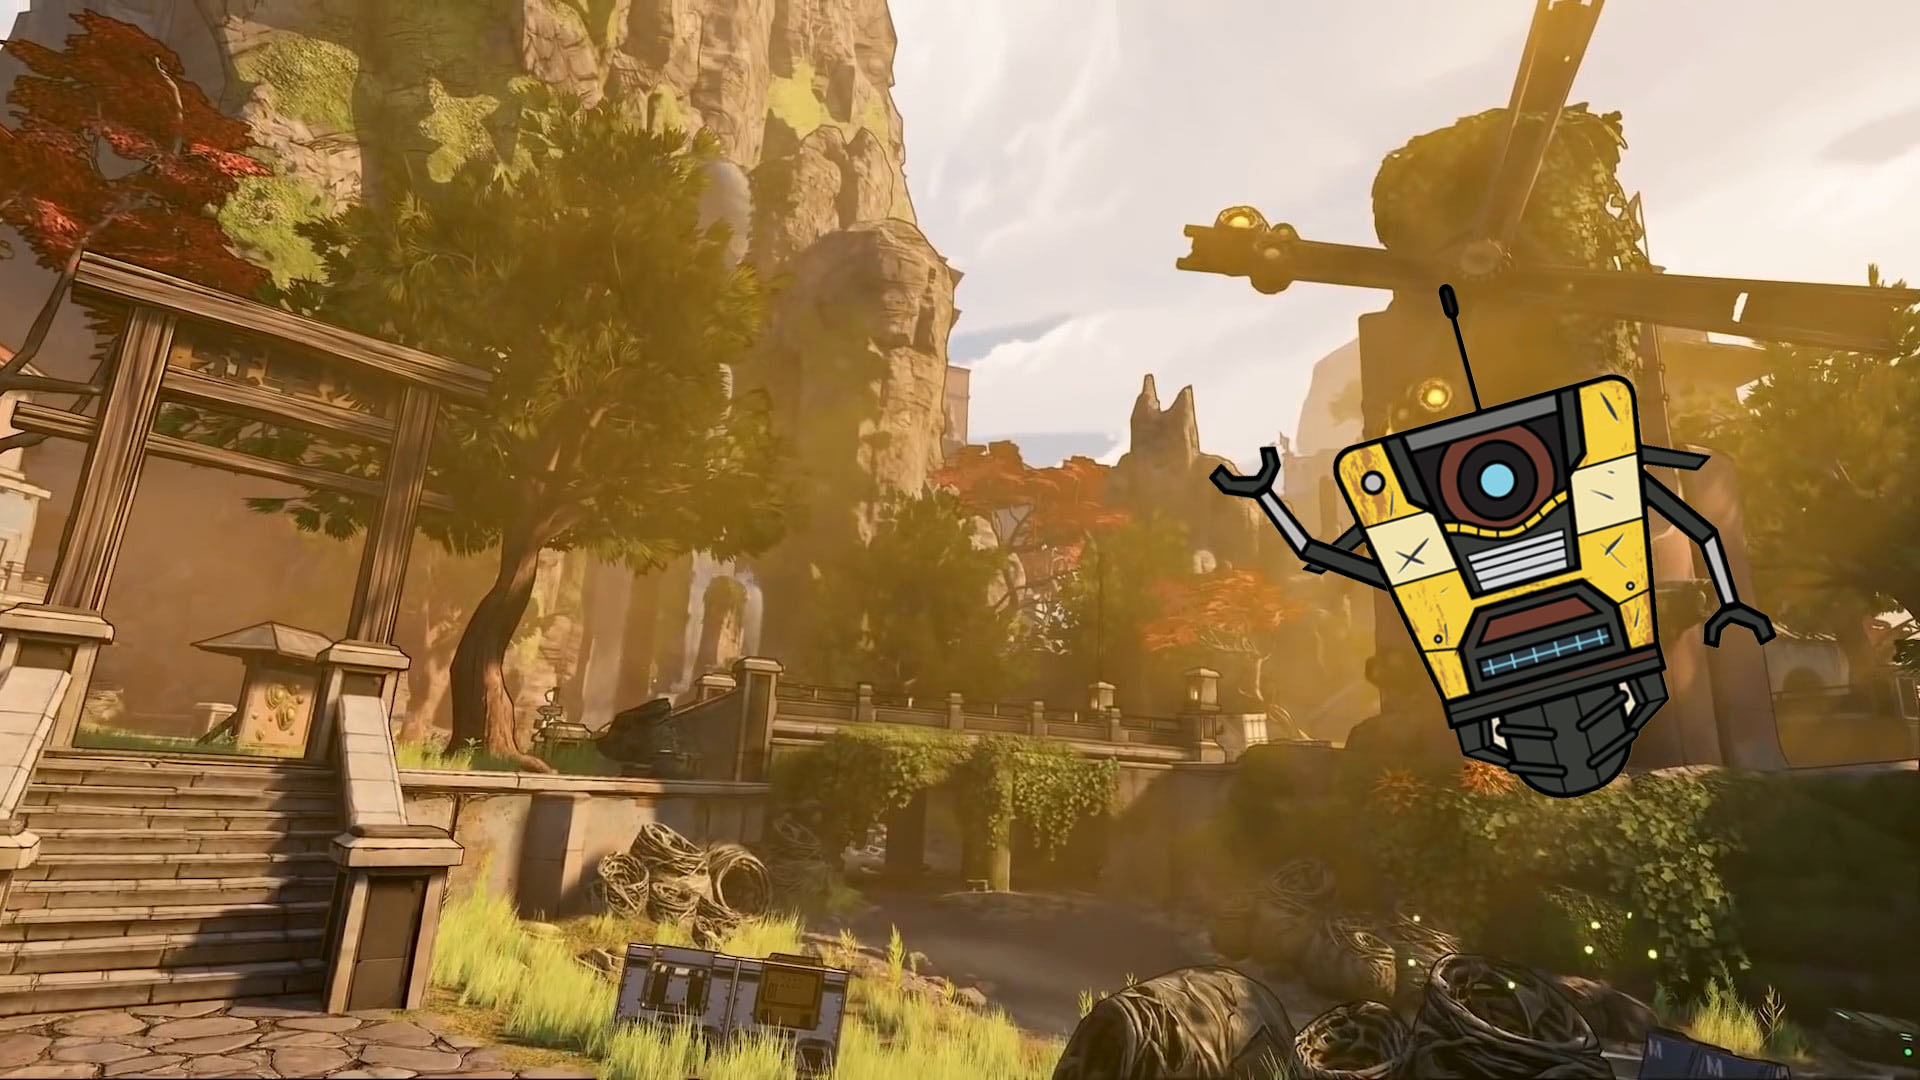
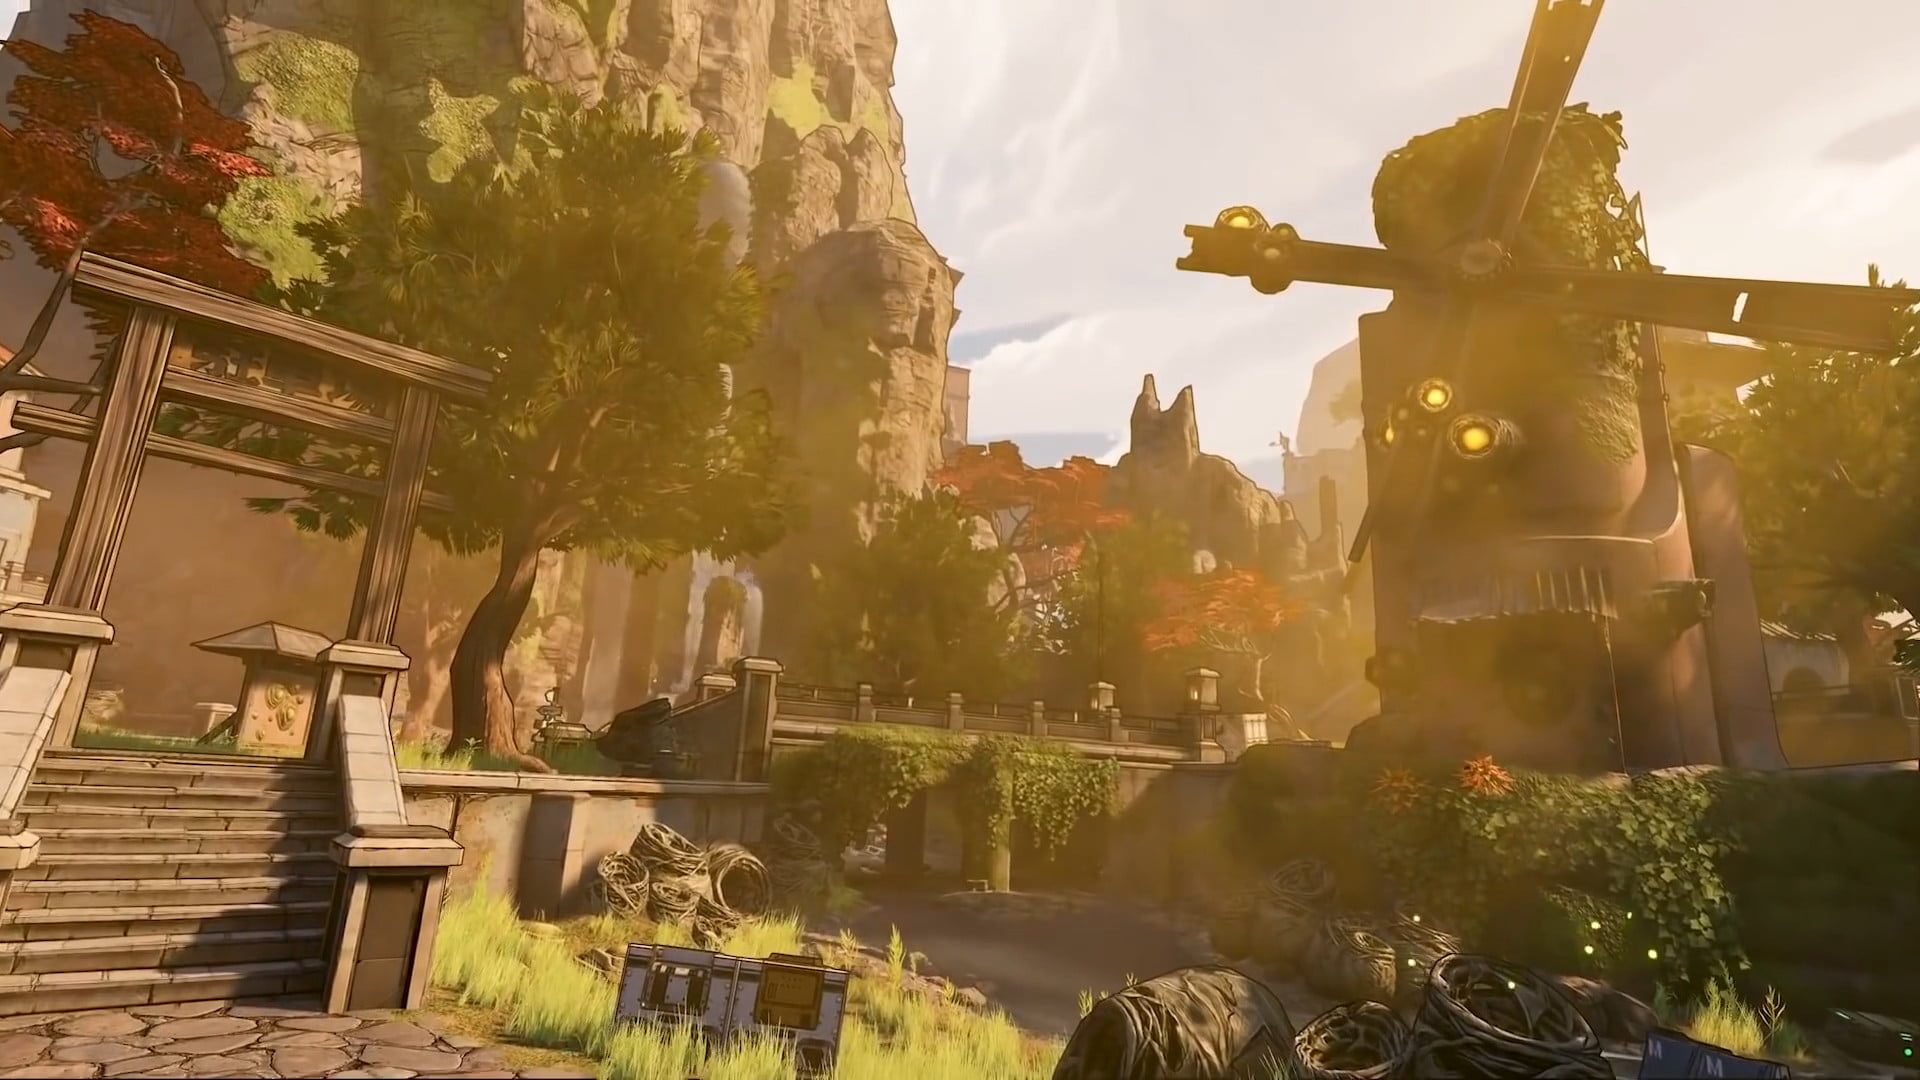
changes to index and css

Changed region(s): [[0.625, 0.275, 0.9375, 0.7333]]

diff --git a/index.html b/index.html
@@ -26,23 +26,25 @@
       <h1 class="display-3">TEST YOUR MIGHT!</h1>
       <br>
       <br>
-      <br>
-      <br>
+    <div class="instructions">
       <h3 id="h3Outline">*This is a parody site made for a school project. Please don't sue me Gearbox.</h3>
+    </div>
     </div>
   </div>
 
 <body>
     <div class="container">
       <div class = "textBox">
-      <p><strong>This is a timed math quiz to test your might or your brain (whichever is stronger). For every wrong answer, 30 seconds will be deducted from your time.</strong></p>
+      <p><strong>This is a timed math quiz to test your might or your brain (whichever is stronger). For every wrong answer, time will be deducted from your total time.</strong></p>
       <a href='/quiz.html'> 
         <button class="StartButton"> 
             START!
         </button>  
       </div>
-      </div>
 
+      <div class="clapTrap">
+        <img src="assets/images/claptrap.png">
+      </div>
       
     <footer>
       <h6>Copyright &#169; Jaycee Bagtas 2019</h6>

diff --git a/assets/css/style.css b/assets/css/style.css
@@ -6,6 +6,13 @@ h1 {
 
 body {
   background-image: url(/assets/images/background.jpg);
+  background-size: cover;
+  background-repeat: no-repeat;
+}
+
+.instructions{
+  width: 100%;
+  padding: 10px;
 }
 
 #h3Outline{
@@ -14,6 +21,12 @@ body {
     -1.5px 1.5px 0 silver,
     1.5px 1.5px 0 silver;
     position: relative;
+}
+
+.clapTrap {
+    float: right;
+    width: -100%;
+    height: auto;
 }
 
 .StartButton {
